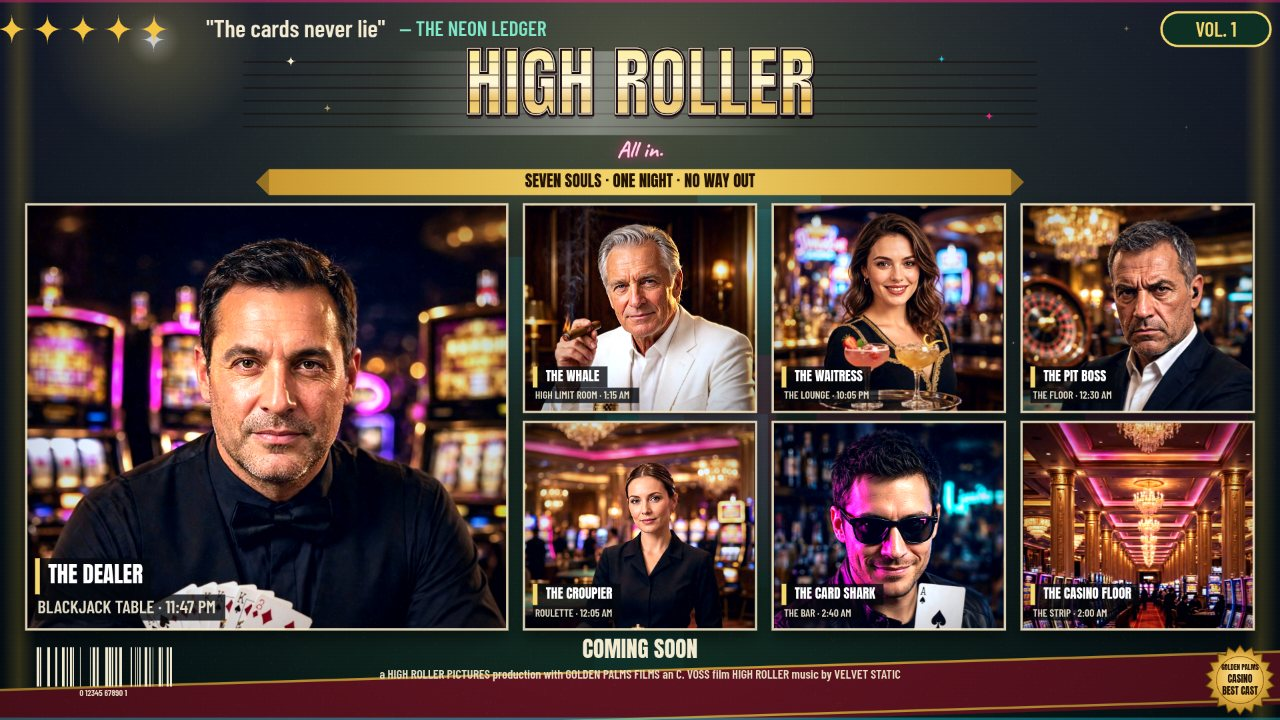
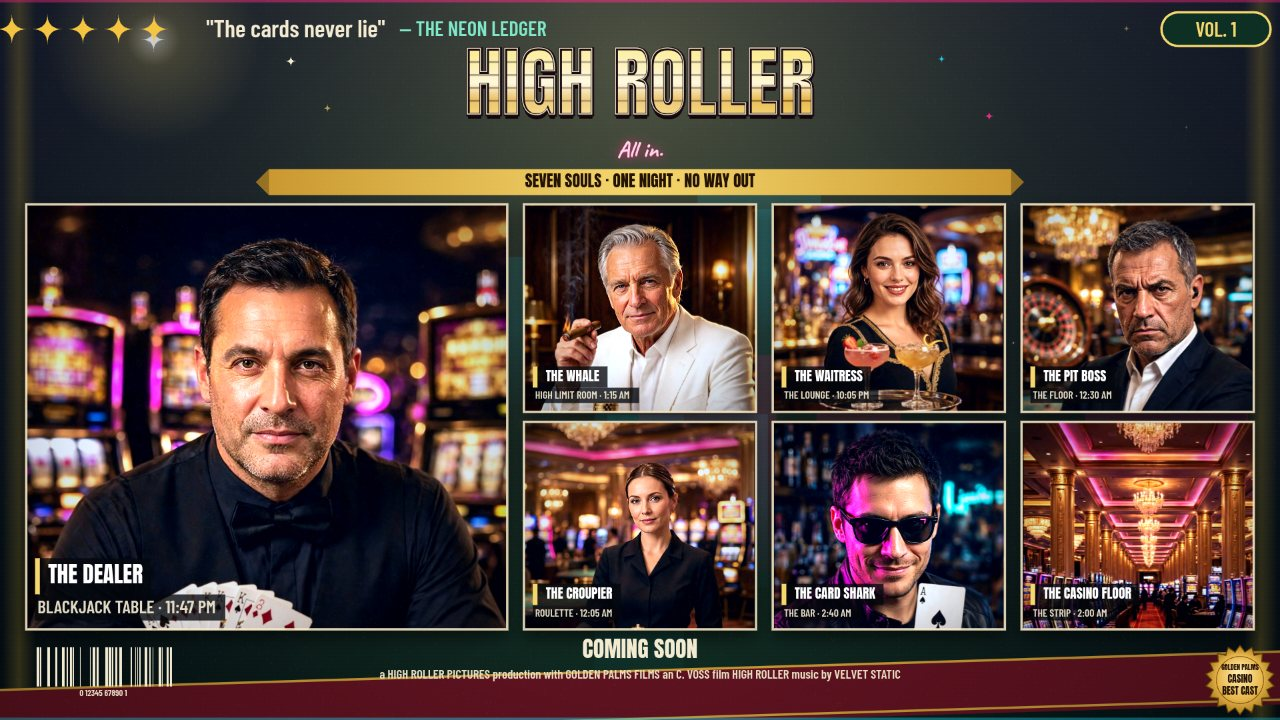
HIGH ROLLER: Casino Night Cover Studio (6 layouts, 6 casino grades, face finder, export 1080/1350/1920)

Changed region(s): [[0.3438, 0.0611, 0.5938, 0.2139]]

diff --git a/app/src/lettering.js b/app/src/lettering.js
@@ -42,28 +42,44 @@ export function drawChromeTitle(ctx, W, H, text, band) {
   // Extrude: dark offset copies below.
   ctx.fillStyle = '#12060a';
   for (let d = px * 0.055; d > 0; d -= 2) ctx.fillText(text, cx, ty + d);
-  // Gradient fill: gold — white — gold, with a magenta kiss at the base.
-  const grad = ctx.createLinearGradient(0, ty - px * 0.5, 0, ty + px * 0.55);
+  // Gradient fill + stripe cuts + gloss, rendered on an offscreen canvas
+  // so the stripes and gloss land ONLY inside the glyphs. The previous
+  // version used 'source-atop' on the MAIN canvas, but the background is
+  // already painted opaque there, so source-atop leaked the stripe rects
+  // across the whole title band as full-width lines (and the gloss rect as
+  // a grey band behind the title). The offscreen canvas is transparent
+  // everywhere except the glyphs, so source-atop cannot leak.
+  const offH = Math.ceil(px * 1.3);
+  const off = document.createElement('canvas');
+  off.width = Math.ceil(w);
+  off.height = offH;
+  const o = off.getContext('2d');
+  o.textAlign = 'center';
+  o.textBaseline = 'middle';
+  o.font = `400 ${px}px Anton, sans-serif`;
+  const oy = offH / 2;
+  const grad = o.createLinearGradient(0, oy - px * 0.5, 0, oy + px * 0.55);
   grad.addColorStop(0, '#fbe98a');
   grad.addColorStop(0.35, '#fff7d6');
   grad.addColorStop(0.55, '#e8b64c');
   grad.addColorStop(0.8, '#f5d76e');
   grad.addColorStop(1, '#ff2e88');
-  ctx.fillStyle = grad;
-  ctx.fillText(text, cx, ty);
+  o.fillStyle = grad;
+  o.fillText(text, w / 2, oy);
   // Stripe cuts + gloss, clipped to the glyphs.
-  ctx.globalCompositeOperation = 'source-atop';
-  ctx.fillStyle = 'rgba(20,8,4,0.55)';
-  for (let sy = ty - px * 0.42; sy < ty + px * 0.5; sy += px * 0.17) {
-    ctx.fillRect(cx - w / 2, sy, w, Math.max(1.5, px * 0.02));
+  o.globalCompositeOperation = 'source-atop';
+  o.fillStyle = 'rgba(20,8,4,0.55)';
+  for (let sy = oy - px * 0.42; sy < oy + px * 0.5; sy += px * 0.17) {
+    o.fillRect(0, sy, w, Math.max(1.5, px * 0.02));
   }
-  const gloss = ctx.createLinearGradient(cx - w * 0.3, ty - px * 0.5, cx + w * 0.2, ty + px * 0.5);
+  const gloss = o.createLinearGradient(w * 0.2, oy - px * 0.5, w * 0.7, oy + px * 0.5);
   gloss.addColorStop(0, 'rgba(255,255,255,0)');
   gloss.addColorStop(0.5, 'rgba(255,255,255,0.34)');
   gloss.addColorStop(1, 'rgba(255,255,255,0)');
-  ctx.fillStyle = gloss;
-  ctx.fillRect(cx - w / 2, ty - px * 0.55, w, px * 1.1);
-  ctx.globalCompositeOperation = 'source-over';
+  o.fillStyle = gloss;
+  o.fillRect(0, oy - px * 0.55, w, px * 1.1);
+  o.globalCompositeOperation = 'source-over';
+  ctx.drawImage(off, cx - w / 2, ty - offH / 2);
   // Outline + light rim.
   ctx.lineWidth = Math.max(2, px * 0.045);
   ctx.strokeStyle = '#1a0b12';
